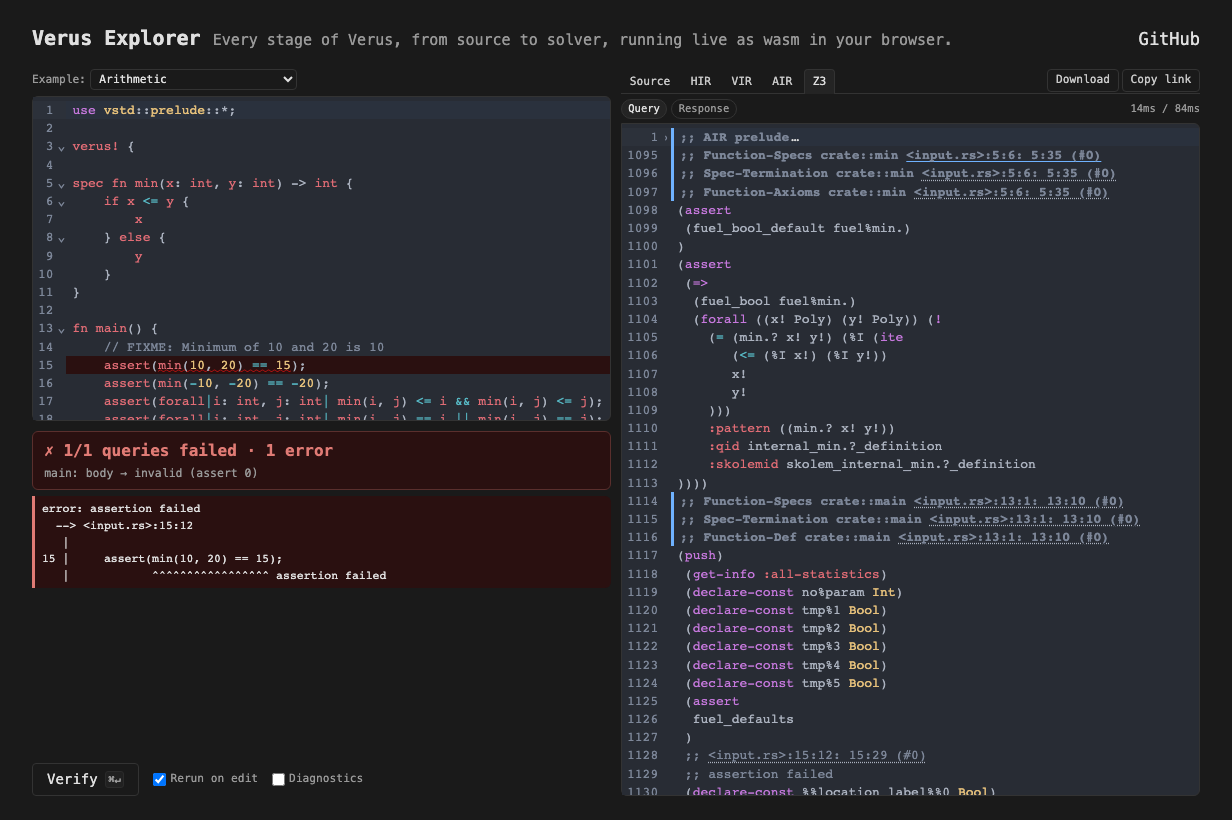
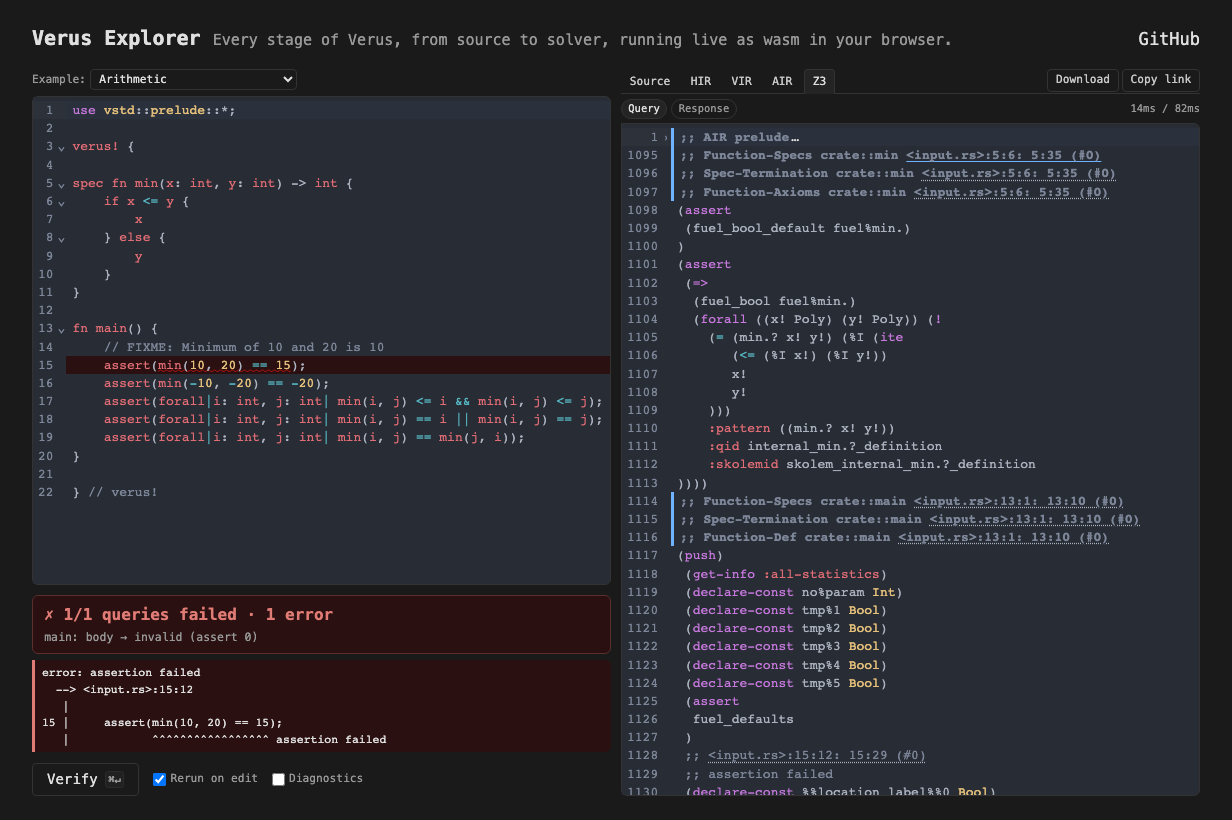
Update

Changed region(s): [[0.0, 0.4878, 0.4935, 0.9146], [0.2159, 0.8841, 0.3084, 0.9146]]

diff --git a/public/index.html b/public/index.html
@@ -185,6 +185,10 @@
       const onMove = (e) => {
         const dy = startY - e.clientY;
         const maxH = leftPane.getBoundingClientRect().height * 0.9;
+        // Strip the CSS `max-height: 30%` cap once the user drags —
+        // otherwise the stylesheet rule beats the inline flex-basis
+        // and the pane refuses to grow past 30% of the column.
+        parseMeta.style.maxHeight = 'none';
         parseMeta.style.flex = `0 0 ${Math.min(maxH, Math.max(40, startH + dy))}px`;
       };
       const onUp = () => {

diff --git a/public/styles.css b/public/styles.css
@@ -386,7 +386,8 @@ kbd {
    doesn't squeeze the editor; collapses to zero when no run has
    produced a verdict yet (so the source fills the whole pane). */
 #parse-meta {
-  flex: 1 1 0;
+  flex: 0 1 auto;
+  max-height: 30%;
   overflow-y: auto;
   min-height: 0;
 }

diff --git a/README.md b/README.md
@@ -40,8 +40,9 @@ Every item in VIR / SST / AIR / SMT carries a `;; <input.rs>:L:C` comment; click
 
 ```
 src/                    Explorer crate (wasm-bindgen entry, pipeline driver)
-editor/                 CodeMirror 6 bundle entry (esbuild input)
 public/                 Static assets (HTML, CSS, example snippets)
+scripts/editor/         CodeMirror 6 bundle entry (esbuild input)
+scripts/screenshot/     Playwright hero-image generator
 third_party/verus/      Verus source tree, patched for in-browser use
 third_party/rust/       Patched rustc (built once via `make host-rust`)
 rustc-rlibs/            Forces wasm32 rlibs for every rustc_* crate we link
